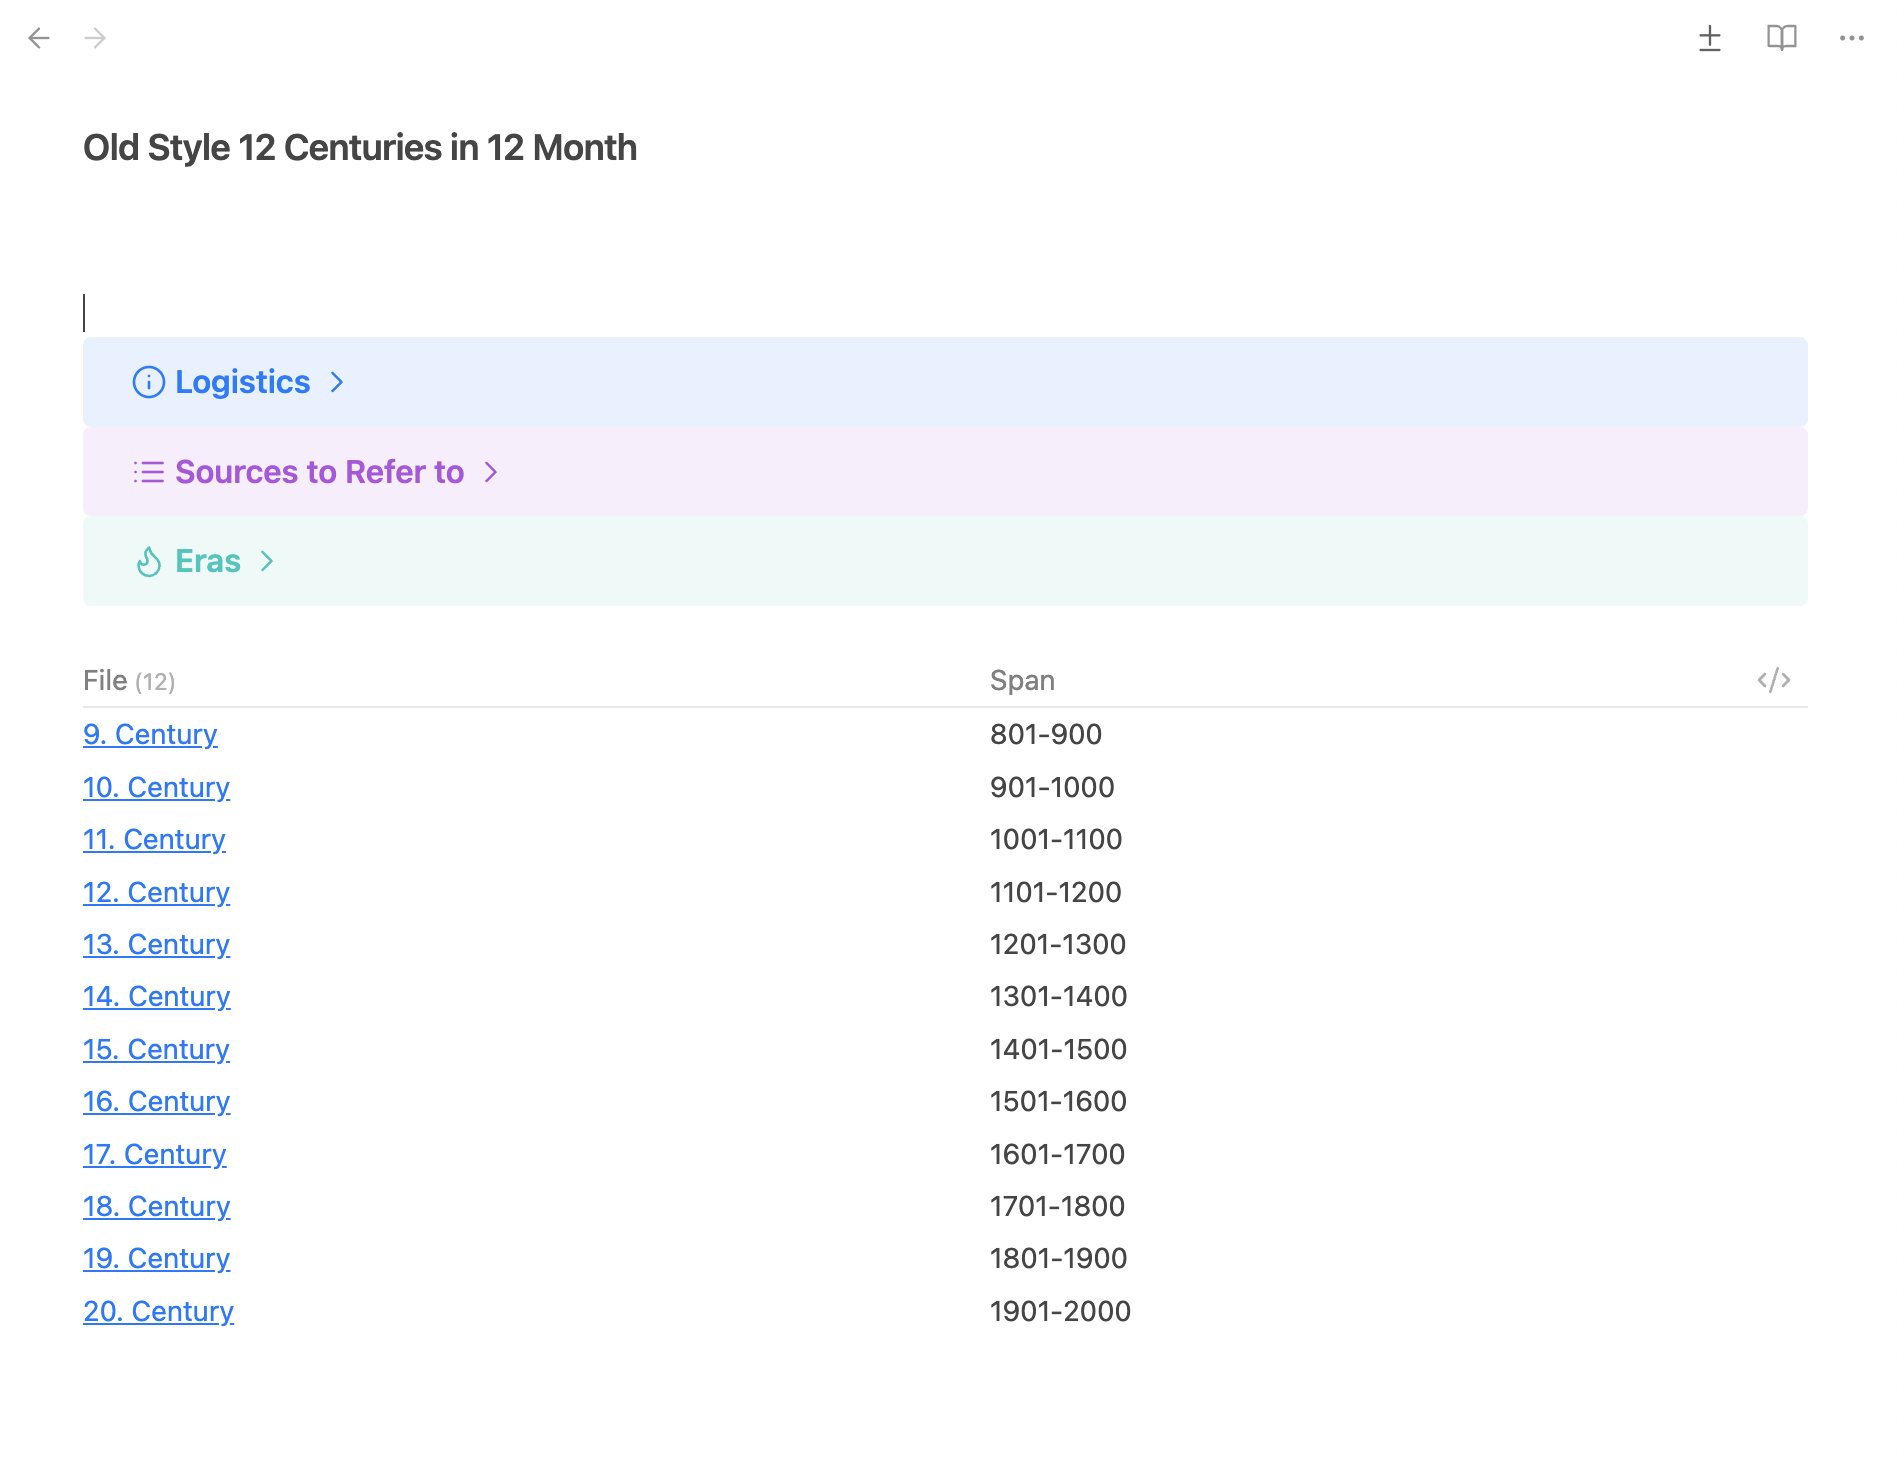
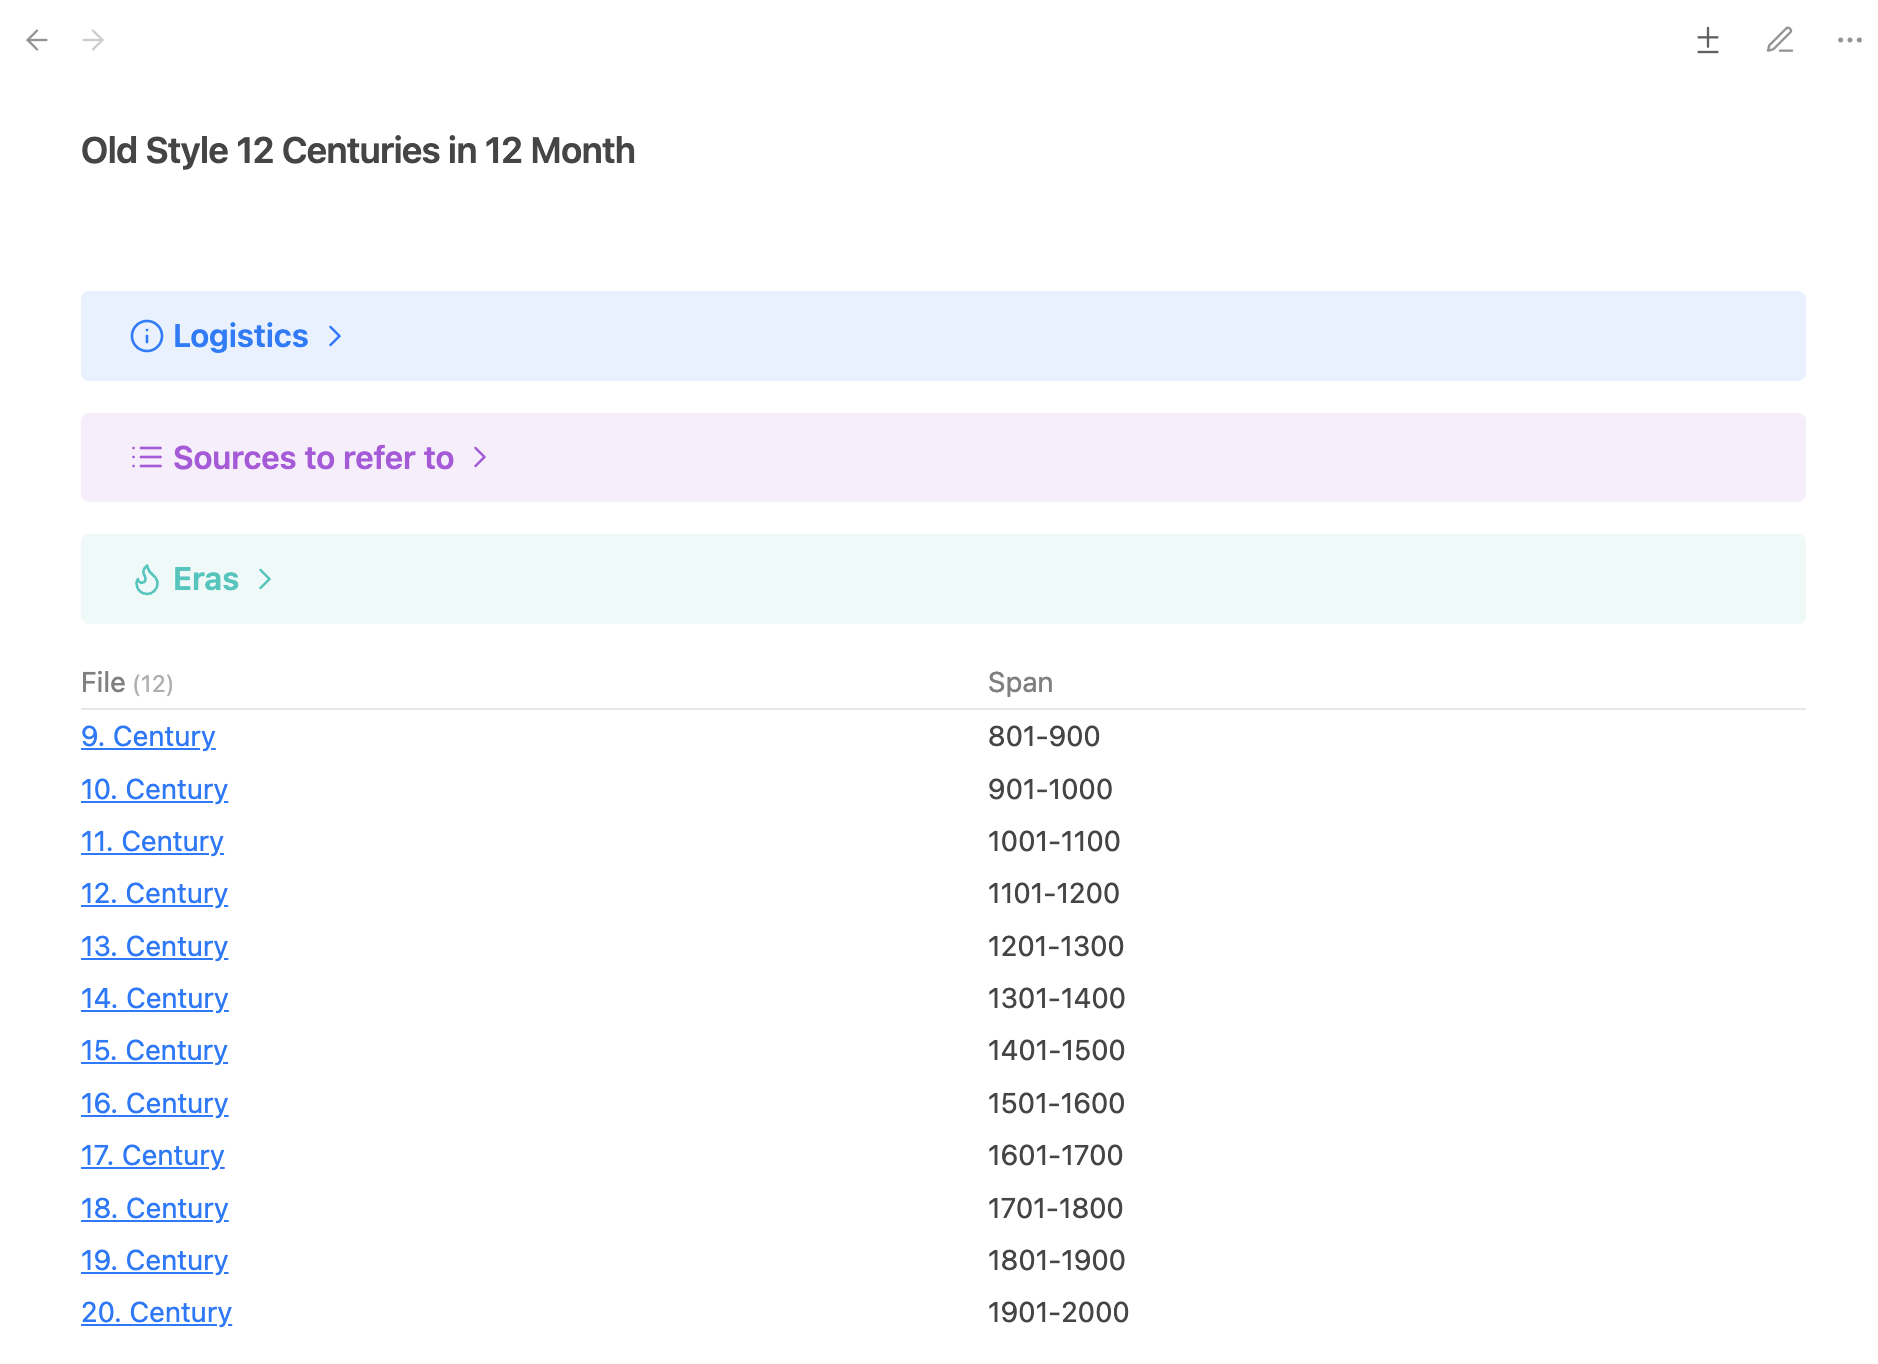
Final article

diff --git a/30 Areas/Blog/Mastering Aesthetics/Mastering Aesthetics in Obsidian.md b/30 Areas/Blog/Mastering Aesthetics/Mastering Aesthetics in Obsidian.md
@@ -9,15 +9,19 @@ created: 2024-01-30
 
 ![[Office4.png]]
 
-In the realm of digital organization and note-taking, I recently stumbled upon a post by PKM Beth that sparked my curiosity. Her beautiful page layout in Capacities left me wondering whether I could replicate this aesthetics and functionality within Obsidian? 
+In the realm of digital organization and note-taking, I recently stumbled upon a post by PKM Beth that sparked my curiosity. 
 
-As I delved into the visual details Beth shared, I identified three distinct elements that make up her page design:
+https://medium.com/pkm-in-the-wild/my-2024-pkm-project-12-centuries-in-12-months-c6fbd2ad9867
+
+Her article is about a 12 month project to delve into historical centuries. What immediately sparked my curiosity was the beautiful page layout she created in Capacities. It left me wondering whether I could replicate this aesthetics and functionality using Obsidian? 
+
+As I delved into the visual details of the page Beth created, I identified three distinct elements that make up her page design:
 
 - **A banner image** that sets the tone for the content below.
 - **A two-column layout**: On one side, collapsible categories offer a neatly organized repository of links for deep dives into specific subpages, while the opposite column presents an engaging image related to the content.
 - **A grid of 12 cards**, each representing a century, offering a visually appealing metaphor to dive into the chronological exploration of history.
 
-By default, Obsidian's standard setup doesn't support these features—banner images, multi-column layouts, and card grids remain beyond its standard capabilities. However, the beauty of Obsidian lies in its versatility and the power of customization. With the application of one custom themes provided by the Obsidian community and a handful of CSS snippets, I achieved a layout that mirrors the elegance and structure of Beth's Capacities page.
+By default, Obsidian's standard setup doesn't support these features—banner images, multi-column layouts, and card grids remain beyond its default capabilities. However, the beauty of Obsidian lies in its versatility and the power of customization. With the application of one custom themes provided by the Obsidian community and a handful of CSS snippets, I achieved a layout that mirrors the elegance and structure of Beth's Capacities page.
 
 I basically went from
 
@@ -44,19 +48,17 @@ create an image representing the X. century in 16:9 format
 
 Of course, it is also possible to tweak the images using a more elaborate prompt, but for the purpose of this experiment the results were good enough.
 
-For the banners I tried to get some images of a modern office with less saturated colors also in 16:9 format. Here some more retries were necessary until I got the images I needed.
-
-To add my personal touch to the banner images, I aimed for a modern office aesthetic with muted colors also in the 16:9 ratio. Here, some more retries were necessary until I got the images I wanted.
+To add a personal touch to the banner images, I aimed for images of modern office aesthetic with muted colors also in the 16:9 ratio. Here, some more retries were necessary until I got the images I wanted.
 
 ## Implementing a Captivating Banner Image
 
-To implement a banner image, I used **TfT Hacker's** CSS snippet for Obsidian that creates Notion-like banner images without plugins. It can be found here:
+To implement a banner image functionality, I used **TfT Hacker's** CSS snippet for Obsidian that creates Notion-like banner images without plugins. It can be found here:
 
-[Hacking Obsidian: Creating Notion-like banner images in Obsidian without Plugins | by TfTHacker | Obsidian Observer | Medium](https://medium.com/obsidian-observer/hacking-obsidian-creating-notion-like-banner-images-in-obsidian-without-plugins-7ad3e0bddc30), 
+https://medium.com/obsidian-observer/hacking-obsidian-creating-notion-like-banner-images-in-obsidian-without-plugins-7ad3e0bddc30
 
  I installed the snippet in the appropriate folder and enabled it under "Appearance/CSS snippets" in the Obsidian settings. I also increased the banner-height to 200px using the Style Settings plugin.
 
-If the image used for the banner is higher than the configured banner-height, the CSS snippet always displays the center part of the banner image. Sometimes I want to display a part of the image above or below the center position. I therefore added a small snippet **banner-pos.css** that allows to set the starting y-position of the image.
+If the image used for the banner is higher than the configured banner-height, the CSS snippet always displays the center part of the banner image. However I wanted to display a part of the image  below the center position. I therefore added a small CSS snippet **banner-pos.css** that allows to set the starting y-position of the image.
 
 This can be done by using one of the y-positions predefined in the snipped. The value `py-0` sets the start position to the top of the image, `py-10` to 10% under the top, `py-20` to 20% and so on. Here is the CSS-snipped I implemented to achieve that:
 
@@ -114,19 +116,26 @@ The **cssclasses** property of the sample file has to include the value **banner
 
 Under the banner image, Beth's layout uses a two-column layout. One column displays collapsible categories filled with links, and the other shows an image. 
 
-At first, I was tempted to use the **Multi-Column Markdown** plugin, but that seemed like an overkill for the task. The use of Markdown tables did not work, since callouts in cells are not supported. So I went with an approach similar to the banner-image by TfT Hacker. That solution does not implement a full-blown multi-column system! Instead, it provides just a simple method for placing an image next to a area of Markdown content.
+At first, I was tempted to use the **Multi-Column Markdown** plugin, but that seemed like an overkill for the task. The use of Markdown tables did not work, since callouts in cells are not supported. So I went with an approach similar to the banner-image by TfT Hacker. That solution does not implement a full-blown multi-column system! Instead, it provides just a simple method for placing an image next to an area of Markdown content.
 
-The solution uses a simple callout with the type-identifier **img-float**. The title of the callout is an embed of the image, the content of the callout is the area that is rendered on the left side of the image. The width of the image column can be set by setting the metadata of the callout itself. Here is the code I used for the sample:
+The solution uses a simple custom callout with the type-identifier **img-float**. The title of the callout is an embedding of the image, the content of the callout is the area that is rendered on the left side of the image. The width of the image column can be set by setting the metadata of the callout itself. Here is the code I used for the sample:
 
 ```
-> [!img-float|pr-30] ![[Hourglass8.png]]
-> ![[Details]]
+> [!img-float|pr-40] ![[Hourglass8.png]]
+>> [!info]- Logistics
+>> ![[Logistics]]
+>
+>> [!Example]- Sources to Refer to
+>> ![[Sources]]
+>
+>> [!Tip]- Eras
+>> ![[Eras]]
 ```
 
 - **img-float** is the type-identifier of the callout
-- **pr-30** states that the right side containing the image shall take up 30% of the whole callout. The content then takes 70%.
+- **pr-40** states that the right side containing the image shall take up 40% of the whole callout. The content then takes 60%.
 - **Hourglass8.png** is the image I want to embed and place on the right side
-- **Details** is an embedded note that is rendered in the content area. The content can also be written directly into the callout body, but I prefer a separate note.
+- The rest of the code just creates 3 regular callouts inside the **img-float** callout
 
 The rendering is achieved with a simple CSS snippet **img-float.css** that has to be placed in the snippets directory of Obsidian and must be activated like the **banner-image.css**. Here is the CSS-code:
 
@@ -194,19 +203,76 @@ The rendering is achieved with a simple CSS snippet **img-float.css** that has t
 }
 ```
 
-
 ## Creating a Grid of Historical Cards
 
+To implement a grid of cards, I use the Obsidian [**Minimal** theme](https://minimal.guide/home). This theme provides  some additional CSS helper classes that create a grid of cards from a Dataview query. 
+
+So all I had to do was to create notes for every single century and add the properties 
+- **banner** - with the link to the image representing the century, 
+- **start**  - with the start date of the century and 
+- **end** - with the end date of the century
+to each of the notes.
+
+In addition to that, a **tags** property is used for identifying the note as a note for a historical century. This is later used in the Dataview query to select the notes.
+
+Here is the 19. century as an example:
+
+```
+---
+...
+tags:
+	- type/century
+start: 1801-01-01
+end: 1900-12-31
+banner: "![[19_Century.png]]"
+---
+```
+
+The overview page than only has to create a dataview query that collects these properties for the centuries to display.
+
+```
+table
+banner,
+(start.year + "-" + end.year) as "Span"
+from #type/century and !"90 System"
+sort start
+```
+
+In order to display the result as a grid of cards, the **cssclasses** property of the overview note has to contain a value **cards**. Since I want to display 6 cards in one row, I also added the value **cards-cols-6**. The list of properties supported by the **Minimal** theme can be found in the [documentation](https://minimal.guide/cards)
 ## Conclusion
+
+Obsidian is not focussed on creating aesthetically pleasing notes. It lacks possibilities, that other note-taking, like Capacities, have to support that. However, using the **Minimal** theme, the **Dataview** plugin and some simple CSS snippets, it is possible to enhance the look of the notes quite a bit.
+
+The source for a note that mimics the Capacities page of PKM Beth is quite simple: 
 
 ```
 ---
 cssclasses:
   - banner-image
-  - embed-strict
   - img-float
   - cards
   - cards-cols-6
 ---
+>[!banner-image] ![[Office12.png|py-60]]
+
+> [!img-float|pr-40] ![[Hourglass8.png]]
+> >[!info]- Logistics
+> >![[Logistics]]
+>
+>> [!Example]- Sources to Refer to
+>> ![[Sources]]
+>
+>> [!Tip]- Eras
+>> ![[Eras]]
+
+---dataview
+table
+banner,
+(start.year + "-" + end.year) as "Span"
+from #type/century and !"90 System"
+sort start
+---
 ```
+
+If you like to see the complete vault I created for this demo, you can visit the corresponding project on [Github](https://github.com/henriette-einstein/medium).
 

diff --git a/20 Projects/12 Centuries/12 Centuries in 12 Months.md b/20 Projects/12 Centuries/12 Centuries in 12 Months.md
@@ -12,9 +12,16 @@ cssclasses:
 ---
 >[!banner-image] ![[Office12.png|py-60]]
 
- > [!img-float|pr-30] ![[Hourglass8.png]]
- > ![[Details]]
 
+ > [!img-float|pr-40] ![[Hourglass8.png]]
+ > >[!info]- Logistics
+ > >![[Logistics]]
+ > 
+>> [!Example]- Sources to Refer to
+>> ![[Sources]] 
+>
+>> [!Tip]- Eras
+>> ![[Eras]]
 
 ```dataview
 table 

diff --git a/20 Projects/12 Centuries/Old Style 12 Centuries in 12 Month.md b/20 Projects/12 Centuries/Old Style 12 Centuries in 12 Month.md
@@ -2,8 +2,14 @@
 cssclasses:
   - embed-strict
 ---
+> [!info]- Logistics
+> ![[Logistics]]
 
-![[Details]]
+> [!Example]- Sources to refer to
+> ![[Sources]]
+
+> [!Tip]- Eras
+> ![[Eras]]
 
 ```dataview
 table 

diff --git a/20 Projects/12 Centuries/Sources.md b/20 Projects/12 Centuries/Sources.md
@@ -1,8 +1,3 @@
----
-tags:
-  - type/note
-created: 2024-02-02
----
 - [Wondrium](https://wondrium.com)
 - [World History Encyclopedia](https://www.worldhistory.org)
 - [History Channel](https://www.history.de)

diff --git a/20 Projects/12 Centuries/Eras.md b/20 Projects/12 Centuries/Eras.md
@@ -1,8 +1,3 @@
----
-tags:
-  - type/note
-created: 2024-02-02
----
 - The Rise of Islam (550-750)
 - The Viking Age (750-1066) 
 - Alfred the Great and the Making of England (871-1016)

diff --git a/20 Projects/12 Centuries/Centuries/12. Century.md b/20 Projects/12 Centuries/Centuries/12. Century.md
@@ -10,7 +10,6 @@ prev: "[[11. Century]]"
 next: "[[13. Century]]"
 cssclasses:
   - banner-image
-  - cards
 ---
 >[!banner-image] ![[12_Century.png|py-60]]
 >

diff --git a/20 Projects/12 Centuries/Centuries/13. Century.md b/20 Projects/12 Centuries/Centuries/13. Century.md
@@ -10,7 +10,6 @@ prev: "[[12. Century]]"
 next: "[[14. Century]]"
 cssclasses:
   - banner-image
-  - cards
 ---
 >[!banner-image] ![[13_Century.png|py-30]]
 >

diff --git a/20 Projects/12 Centuries/Centuries/16. Century.md b/20 Projects/12 Centuries/Centuries/16. Century.md
@@ -10,7 +10,6 @@ prev: "[[15. Century]]"
 next: "[[17. Century]]"
 cssclasses:
   - banner-image
-  - cards
 ---
 >[!banner-image] ![[16_Century.png|py-60]]
 >

diff --git a/20 Projects/12 Centuries/Centuries/17. Century.md b/20 Projects/12 Centuries/Centuries/17. Century.md
@@ -10,7 +10,6 @@ prev: "[[16. Century]]"
 next: "[[18. Century]]"
 cssclasses:
   - banner-image
-  - cards
 ---
 >[!banner-image] ![[17_Century.png|py-60]]
 >

diff --git a/20 Projects/12 Centuries/Centuries/18. Century.md b/20 Projects/12 Centuries/Centuries/18. Century.md
@@ -10,7 +10,6 @@ prev: "[[17. Century]]"
 next: "[[19. Century]]"
 cssclasses:
   - banner-image
-  - cards
 ---
 >[!banner-image] ![[18_Century.png|py-80]]
 >

diff --git a/20 Projects/12 Centuries/Centuries/19. Century.md b/20 Projects/12 Centuries/Centuries/19. Century.md
@@ -10,7 +10,6 @@ prev: "[[18. Century]]"
 next: "[[20. Century]]"
 cssclasses:
   - banner-image
-  - cards
 ---
 >[!banner-image] ![[19_Century.png|py-60]]
 >

diff --git a/20 Projects/12 Centuries/Centuries/20. Century.md b/20 Projects/12 Centuries/Centuries/20. Century.md
@@ -10,7 +10,6 @@ prev: "[[19. Century]]"
 next: "[[21. Century]]"
 cssclasses:
   - banner-image
-  - cards
 ---
 >[!banner-image] ![[20_Century.png|py-60]]
 >
